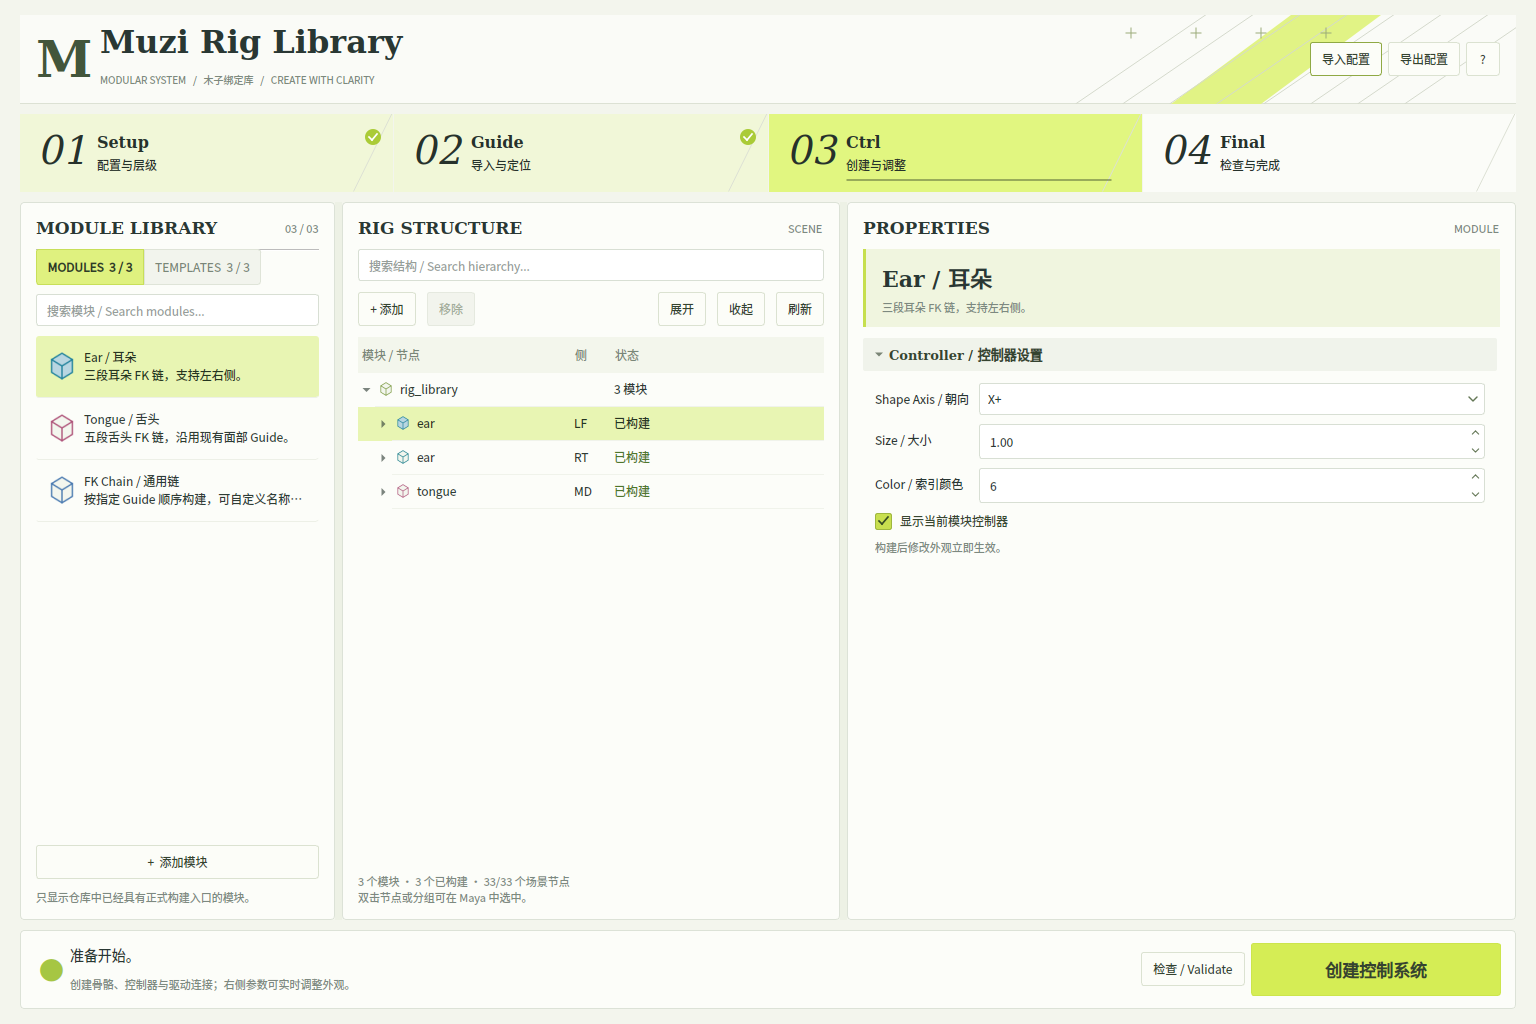
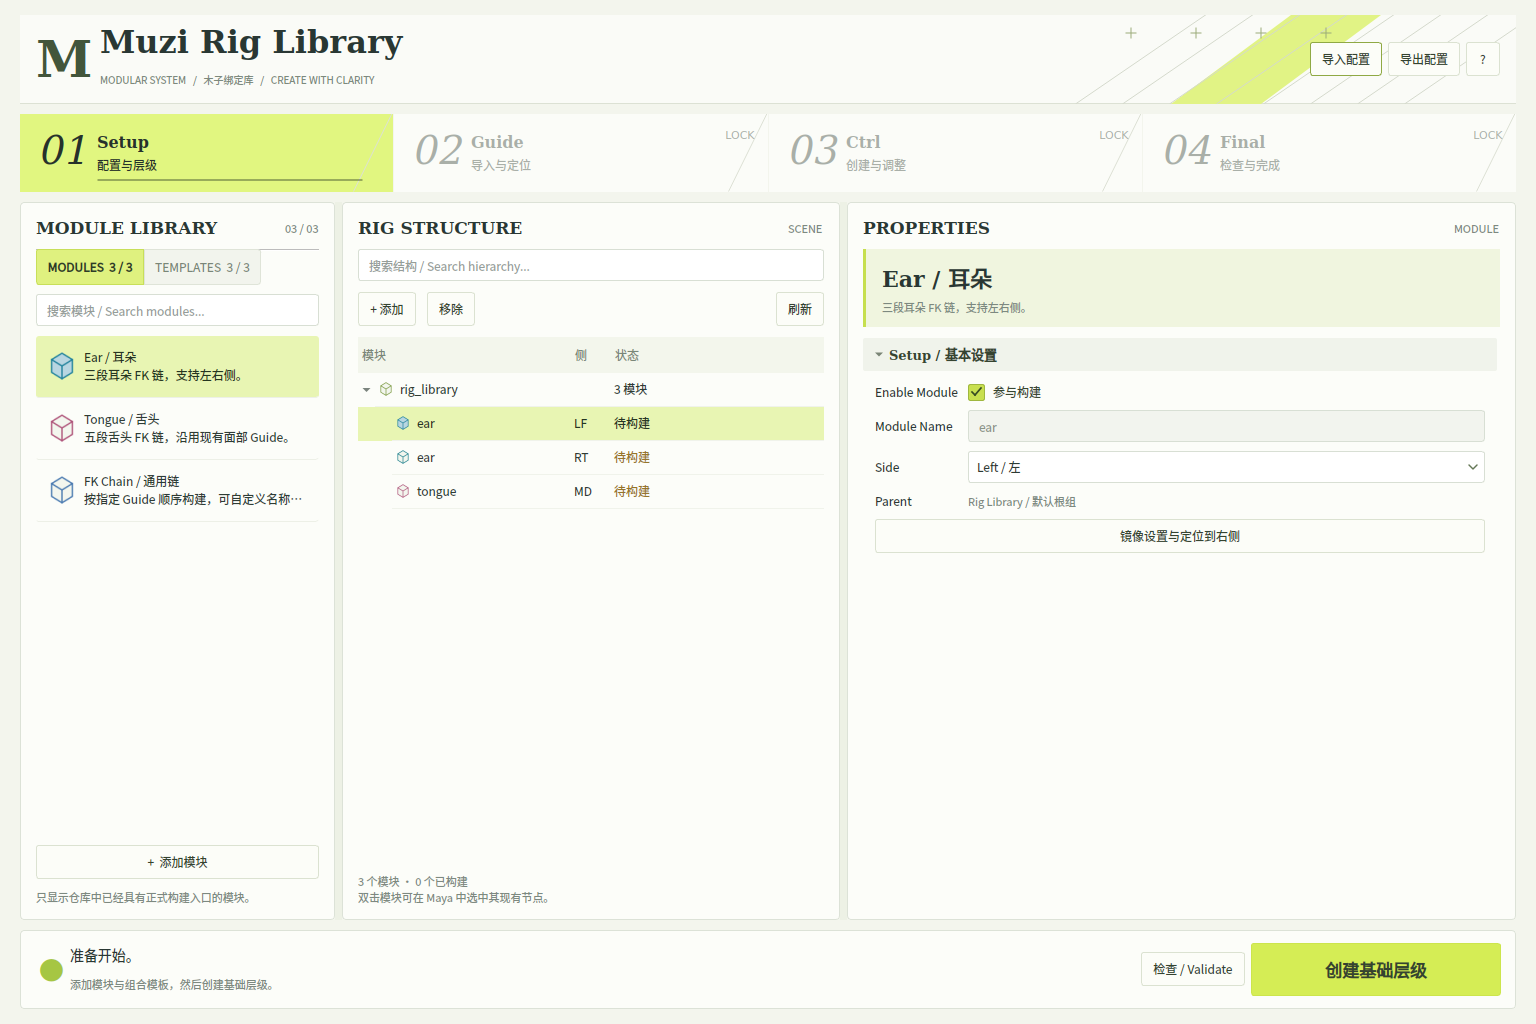
feat: add module setup mirroring

diff --git a/systems/rig/ui/modular_rig_ui.py b/systems/rig/ui/modular_rig_ui.py
@@ -168,13 +168,11 @@ class ModularRigWindow(QtWidgets.QWidget):
         self.remove_button = button(u"移除", self.remove_current, u"仅移除尚未构建的模块配置")
         toolbar.addWidget(self.remove_button)
         toolbar.addStretch(1)
-        toolbar.addWidget(button(u"展开", self.expand_structure, u"展开全部模块和节点分组"))
-        toolbar.addWidget(button(u"收起", self.collapse_structure, u"仅保留绑定库根层级"))
         toolbar.addWidget(button(u"刷新", self.refresh_scene))
         center.addLayout(toolbar)
         self.module_tree = QtWidgets.QTreeWidget()
         self.module_tree.setColumnCount(3)
-        self.module_tree.setHeaderLabels([u"模块 / 节点", u"侧", u"状态"])
+        self.module_tree.setHeaderLabels([u"模块", u"侧", u"状态"])
         self.module_tree.setIndentation(17)
         self.module_tree.setUniformRowHeights(True)
         self.module_tree.setAnimated(False)
@@ -187,7 +185,7 @@ class ModularRigWindow(QtWidgets.QWidget):
         self.empty_label = label(u"从左侧添加模块，\n或选择 Face Starter 模板开始。", "muted")
         self.empty_label.setAlignment(Qt.AlignCenter)
         center.addWidget(self.empty_label)
-        self.structure_note = label(u"双击场景节点可在 Maya 中选中。", "muted")
+        self.structure_note = label(u"双击模块可在 Maya 中选中其现有节点。", "muted")
         self.structure_note.setWordWrap(True)
         center.addWidget(self.structure_note)
         self.splitter.addWidget(self.center_panel)
@@ -271,6 +269,9 @@ class ModularRigWindow(QtWidgets.QWidget):
         basic.form.addRow("Side", self.side_combo)
         self.parent_label = label(u"Rig Library / 默认根组", "muted")
         basic.form.addRow("Parent", self.parent_label)
+        self.mirror_button = button(u"镜像到另一侧", self.mirror_current_module,
+                                    u"复制模块设置，并将 Guide 定位沿世界 X=0 镜像到配对模块")
+        basic.form.addRow(self.mirror_button)
         layout.addWidget(basic)
 
         guides = Section("Guide / 定位设置")
@@ -416,22 +417,6 @@ class ModularRigWindow(QtWidgets.QWidget):
         for index in range(self.module_tree.topLevelItemCount()):
             visit(self.module_tree.topLevelItem(index))
 
-    def expand_structure(self):
-        u"""展开当前过滤结果中的全部可见层级。"""
-        iterator = QtWidgets.QTreeWidgetItemIterator(self.module_tree)
-        while iterator.value():
-            item = iterator.value()
-            if not item.isHidden() and item.childCount():
-                item.setExpanded(True)
-            iterator += 1
-
-    def collapse_structure(self):
-        u"""收起模块细节，同时保留绑定库根节点可见。"""
-        self.module_tree.collapseAll()
-        root = self.module_tree.topLevelItem(0)
-        if root is not None:
-            root.setExpanded(True)
-
     def current_record(self):
         u"""取得当前选择对应的真实配置。"""
         for record in self.service.document["modules"]:
@@ -440,14 +425,7 @@ class ModularRigWindow(QtWidgets.QWidget):
         return None
 
     def _render_tree(self):
-        u"""重建配置树，保留当前选择和已经展开的模块。"""
-        expanded = set()
-        iterator = QtWidgets.QTreeWidgetItemIterator(self.module_tree)
-        while iterator.value():
-            item = iterator.value()
-            if item.isExpanded():
-                expanded.add(item.data(0, Qt.UserRole + 2))
-            iterator += 1
+        u"""重建精简模块树；场景节点不再作为子层级显示。"""
         self.module_tree.blockSignals(True)
         self.module_tree.clear()
         records = self.service.document["modules"]
@@ -458,8 +436,6 @@ class ModularRigWindow(QtWidgets.QWidget):
         root.setExpanded(True)
         selected_item = None
         built_count = 0
-        scene_node_count = 0
-        scene_node_total = 0
         for record in records:
             entry = catalog.get_module(record["kind"])
             state = u"已构建" if record["built"] else u"待构建"
@@ -472,36 +448,20 @@ class ModularRigWindow(QtWidgets.QWidget):
             item.setData(0, Qt.UserRole, record["id"])
             item.setData(0, Qt.UserRole + 2, "module:" + record["id"])
             item.setToolTip(0, entry["description"])
+            selectable_nodes = []
+            candidate_nodes = catalog.guide_names(record)
+            if record["built"]:
+                outputs = catalog.output_names(record)
+                candidate_nodes = candidate_nodes + outputs["joints"] + outputs["controls"]
+            for name in candidate_nodes:
+                if self.service.node_exists(name):
+                    selectable_nodes.append(name)
+            item.setData(0, Qt.UserRole + 1, selectable_nodes)
             state_color = "#4f762a" if record["built"] else "#967428"
             if not record["enabled"]:
                 state_color = "#8b9488"
             item.setForeground(2, QtGui.QBrush(QtGui.QColor(state_color)))
             root.addChild(item)
-            node_groups = {"Guide": catalog.guide_names(record)}
-            if record["built"]:
-                outputs = catalog.output_names(record)
-                node_groups["Joint"] = outputs["joints"]
-                node_groups["Control"] = outputs["controls"]
-            for group_title, names in node_groups.items():
-                group = QtWidgets.QTreeWidgetItem([group_title, "", u"{} 节点".format(len(names))])
-                group.setData(0, Qt.UserRole, record["id"])
-                group.setData(0, Qt.UserRole + 1, names)
-                group.setData(0, Qt.UserRole + 2, "group:{}:{}".format(record["id"], group_title))
-                item.addChild(group)
-                for name in names:
-                    exists = self.service.node_exists(name)
-                    node_state = u"已存在" if exists else u"未创建"
-                    scene_node_total += 1
-                    if exists:
-                        scene_node_count += 1
-                    node = QtWidgets.QTreeWidgetItem([name.rsplit("|", 1)[-1], "", node_state])
-                    node.setToolTip(0, name)
-                    node.setData(0, Qt.UserRole, record["id"])
-                    node.setData(0, Qt.UserRole + 1, [name])
-                    node.setForeground(2, QtGui.QBrush(QtGui.QColor("#4f762a" if exists else "#99a095")))
-                    group.addChild(node)
-                group.setExpanded(group.data(0, Qt.UserRole + 2) in expanded)
-            item.setExpanded(item.data(0, Qt.UserRole + 2) in expanded)
             if selected_item is None or record["id"] == self.current_id:
                 selected_item = item
         if selected_item:
@@ -513,8 +473,7 @@ class ModularRigWindow(QtWidgets.QWidget):
         count = len(records)
         self.empty_label.setVisible(count == 0)
         self.structure_note.setText(
-            u"{} 个模块 · {} 个已构建 · {}/{} 个场景节点\n双击节点或分组可在 Maya 中选中。".format(
-                count, built_count, scene_node_count, scene_node_total))
+            u"{} 个模块 · {} 个已构建\n双击模块可在 Maya 中选中其现有节点。".format(count, built_count))
         self.filter_tree(self.tree_search.text())
         self._load_properties()
         self._sync_workflow_steps()
@@ -545,6 +504,10 @@ class ModularRigWindow(QtWidgets.QWidget):
             self.name_edit.setEnabled(not record["built"] and record["kind"] == "fk_chain")
             self.side_combo.setCurrentIndex(self.side_combo.findData(record["side"]))
             self.side_combo.setEnabled(not record["built"] and record["kind"] != "tongue")
+            mirrorable = record["side"] in ("lf", "rt") and not record["built"]
+            self.mirror_button.setEnabled(mirrorable)
+            destination = u"右侧" if record["side"] == "lf" else u"左侧"
+            self.mirror_button.setText(u"镜像设置与定位到{}".format(destination) if mirrorable else u"当前模块不可镜像")
             self.axis_combo.setCurrentText(record["ctrl_axis"])
             self.size_spin.setValue(record["ctrl_size"])
             self.color_spin.setValue(record["ctrl_color"])
@@ -631,6 +594,15 @@ class ModularRigWindow(QtWidgets.QWidget):
                 names.append(line.strip())
         self._run(lambda: self.service.update_module(self.current_id, {"guides": names}), u"Guide 列表已保存。")
 
+    def mirror_current_module(self):
+        u"""将当前左右模块的参数与 Guide 定位镜像到配对侧。"""
+        if self.current_id is None:
+            return
+        self._run(
+            lambda: self.service.mirror_module(self.current_id),
+            lambda result: u"已镜像到{}：{} 个 Guide 定位。".format(
+                result["side"].upper(), result["guide_count"]))
+
     def set_step(self, number, *args):
         u"""四段导航对应真实能力，Ctrl 阶段一次完成骨骼和控制器。"""
         workflow = self.service.workflow_state()
@@ -711,7 +683,7 @@ class ModularRigWindow(QtWidgets.QWidget):
         self._run(check, u"检查通过，可以构建待建模块。")
 
     def select_tree_nodes(self, item, column=0):
-        u"""双击节点或分组，在 Maya 中选中对应对象。"""
+        u"""双击模块，在 Maya 中选中其现有 Guide、Joint 和 Control。"""
         names = item.data(0, Qt.UserRole + 1)
         if names:
             self.service.select_nodes(names)

diff --git a/systems/rig/library_service.py b/systems/rig/library_service.py
@@ -152,6 +152,60 @@ class RigLibraryService(object):
 
         self._commit(document, apply, "Muzi Module Properties")
 
+    def mirror_module(self, identity):
+        u"""复制左右模块设置，并将 Guide 世界位置沿 X=0 镜像到配对侧。"""
+        document = copy.deepcopy(self.document)
+        source = None
+        for record in document["modules"]:
+            if record["id"] == identity:
+                source = record
+                break
+        if source is None:
+            raise ValueError(u"没有找到需要镜像的模块。")
+        if source["side"] not in ("lf", "rt"):
+            raise ValueError(u"中央模块不需要左右镜像。")
+        if source["built"]:
+            raise RuntimeError(u"已构建模块不能镜像定位，请先在构建前完成镜像。")
+
+        opposite = "rt" if source["side"] == "lf" else "lf"
+        target = None
+        for record in document["modules"]:
+            same_module = record["kind"] == source["kind"] and record["name"] == source["name"]
+            if same_module and record["side"] == opposite:
+                target = record
+                break
+        if target is None:
+            raise ValueError(u"请先添加对应的{}模块。".format(u"右侧" if opposite == "rt" else u"左侧"))
+        if target["built"]:
+            raise RuntimeError(u"目标模块已经构建，不能再镜像定位。")
+
+        mirrored_keys = ("enabled", "ctrl_size", "ctrl_axis", "jnt_radius",
+                         "show_axis", "show_joints", "show_controls")
+        for key in mirrored_keys:
+            target[key] = source[key]
+
+        source_guides = catalog.guide_names(source)
+        target_guides = catalog.guide_names(target)
+        if not source_guides or len(source_guides) != len(target_guides):
+            raise ValueError(u"左右模块必须具有数量一致的 Guide 列表。")
+
+        mirrored_positions = []
+        for index in range(len(source_guides)):
+            source_matches = self.cmds.ls(source_guides[index], long=True) or []
+            target_matches = self.cmds.ls(target_guides[index], long=True) or []
+            if len(source_matches) != 1 or len(target_matches) != 1:
+                raise RuntimeError(u"请先导入左右两侧完整 Guide，再执行镜像。")
+            position = self.cmds.xform(source_matches[0], query=True, worldSpace=True, translation=True)
+            mirrored_position = [-position[0], position[1], position[2]]
+            mirrored_positions.append((target_matches[0], mirrored_position))
+
+        def apply(candidate):
+            for name, position in mirrored_positions:
+                self.cmds.xform(name, worldSpace=True, translation=position)
+
+        self._commit(document, apply, "Muzi Mirror Module")
+        return {"id": target["id"], "side": target["side"], "guide_count": len(mirrored_positions)}
+
     def _owned_group(self, name):
         u"""检查场景中的固定根组是否属于当前绑定库。"""
         if not self.cmds.objExists(name):

diff --git a/tests/rig_library_test.py b/tests/rig_library_test.py
@@ -45,7 +45,7 @@ class FakeCommands:
     def createNode(self, node_type, name, **kwargs):
         if name in self.nodes:
             raise RuntimeError("duplicate node")
-        self.nodes[name] = {"type": node_type, "attrs": {}}
+        self.nodes[name] = {"type": node_type, "attrs": {}, "translation": [0.0, 0.0, 0.0]}
         return name
 
     def addAttr(self, name, longName, **kwargs):
@@ -76,6 +76,11 @@ class FakeCommands:
 
     def select(self, names, replace=True):
         self.selection = list(names)
+
+    def xform(self, name, query=False, worldSpace=False, translation=None, **kwargs):
+        if query:
+            return list(self.nodes[name]["translation"])
+        self.nodes[name]["translation"] = list(translation)
 
 
 class ServiceFixture(RigLibraryService):
@@ -166,6 +171,36 @@ class RigLibraryTests(unittest.TestCase):
             with self.assertRaises(ValueError):
                 self.service.update_module(identity, values)
         self.assertEqual(self.service.document["modules"][0]["ctrl_size"], 1)
+
+    def test_mirror_module_copies_settings_and_guide_positions(self):
+        self.prepare_face()
+        source = self.service.document["modules"][0]
+        target = self.service.document["modules"][1]
+        self.service.update_module(source["id"], {
+            "ctrl_size": 2.5,
+            "ctrl_axis": "Z+",
+            "jnt_radius": 0.75,
+            "show_axis": True,
+        })
+        source = self.service.document["modules"][0]
+        source_guides = catalog.guide_names(source)
+        target_guides = catalog.guide_names(target)
+        positions = ([2.0, 3.0, 4.0], [3.0, 4.0, 5.0], [4.0, 5.0, 6.0])
+        for index in range(len(source_guides)):
+            self.commands.xform(source_guides[index], translation=positions[index])
+
+        result = self.service.mirror_module(source["id"])
+
+        target = self.service.document["modules"][1]
+        self.assertEqual(result["guide_count"], 3)
+        self.assertEqual(target["ctrl_size"], 2.5)
+        self.assertEqual(target["ctrl_axis"], "Z+")
+        self.assertEqual(target["jnt_radius"], 0.75)
+        self.assertTrue(target["show_axis"])
+        self.assertEqual(target["ctrl_color"], 13)
+        for index in range(len(target_guides)):
+            expected = [-positions[index][0], positions[index][1], positions[index][2]]
+            self.assertEqual(self.commands.xform(target_guides[index], query=True), expected)
 
     def test_fk_requires_explicit_ordered_guides(self):
         self.service.add_module("fk_chain")

diff --git a/tests/rig_library_qt_test.py b/tests/rig_library_qt_test.py
@@ -106,19 +106,33 @@ class RigLibraryQtTests(unittest.TestCase):
         self.assertEqual(self.window.library_tabs.currentIndex(), 0)
         self.assertTrue(self.window.module_search.hasFocus())
 
-    def test_structure_search_and_expand_controls(self):
+    def test_structure_only_lists_modules(self):
         self.window.add_selected_template()
         root = self.window.module_tree.topLevelItem(0)
         self.assertEqual(root.text(2), u"3 模块")
-        self.window.expand_structure()
-        self.assertTrue(root.child(0).isExpanded())
-        self.assertTrue(root.child(0).child(0).isExpanded())
-        self.window.collapse_structure()
-        self.assertTrue(root.isExpanded())
-        self.assertFalse(root.child(0).isExpanded())
+        self.assertEqual(self.window.module_tree.headerItem().text(0), u"模块")
+        self.assertEqual(root.child(0).childCount(), 0)
         self.window.tree_search.setText(u"待构建")
         self.assertFalse(root.child(0).isHidden())
-        self.assertIn(u"0/11 个场景节点", self.window.structure_note.text())
+        self.assertNotIn(u"场景节点", self.window.structure_note.text())
+
+    def test_setup_mirror_button_updates_paired_module(self):
+        self.window.add_selected_template()
+        source = self.service.document["modules"][0]
+        target = self.service.document["modules"][1]
+        source_guides = catalog.guide_names(source)
+        target_guides = catalog.guide_names(target)
+        for index in range(len(source_guides)):
+            self.service.cmds.createNode("transform", name=source_guides[index])
+            self.service.cmds.createNode("transform", name=target_guides[index])
+            self.service.cmds.xform(source_guides[index], translation=[index + 1.0, 2.0, 3.0])
+        self.assertTrue(self.window.mirror_button.isEnabled())
+        self.assertIn(u"右侧", self.window.mirror_button.text())
+
+        self.window.mirror_current_module()
+
+        self.assertEqual(self.service.cmds.xform(target_guides[0], query=True), [-1.0, 2.0, 3.0])
+        self.assertIn("RT", self.window.status_label.text())
 
     def test_inline_validation_preserves_records(self):
         self.window.add_selected_module()
